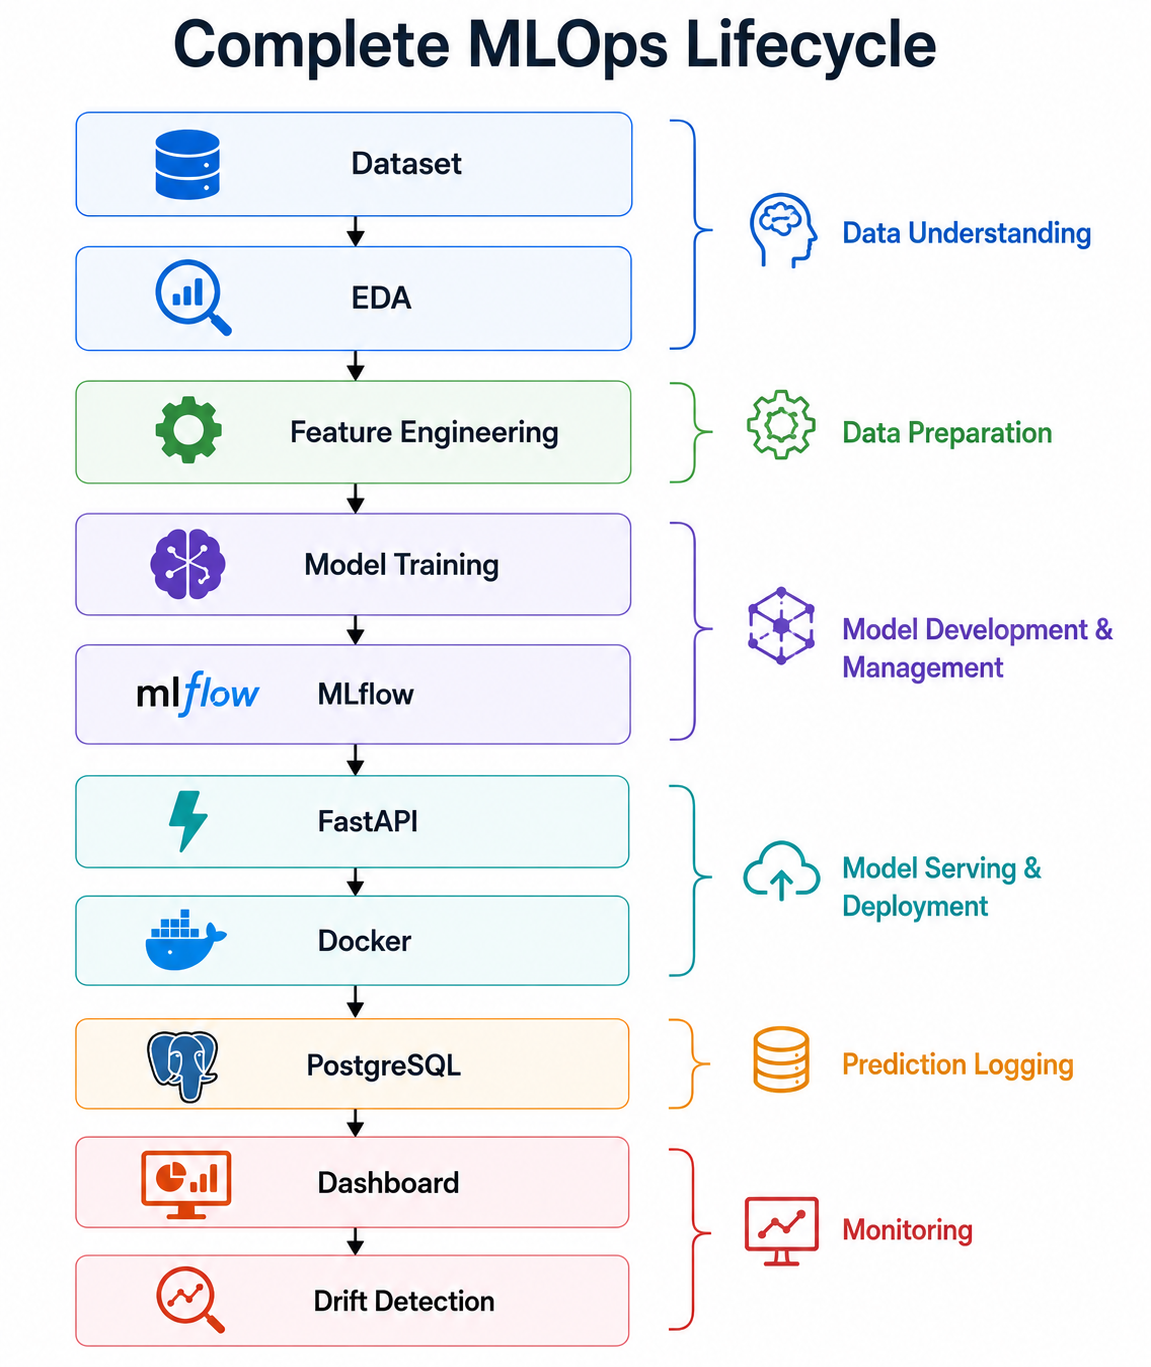
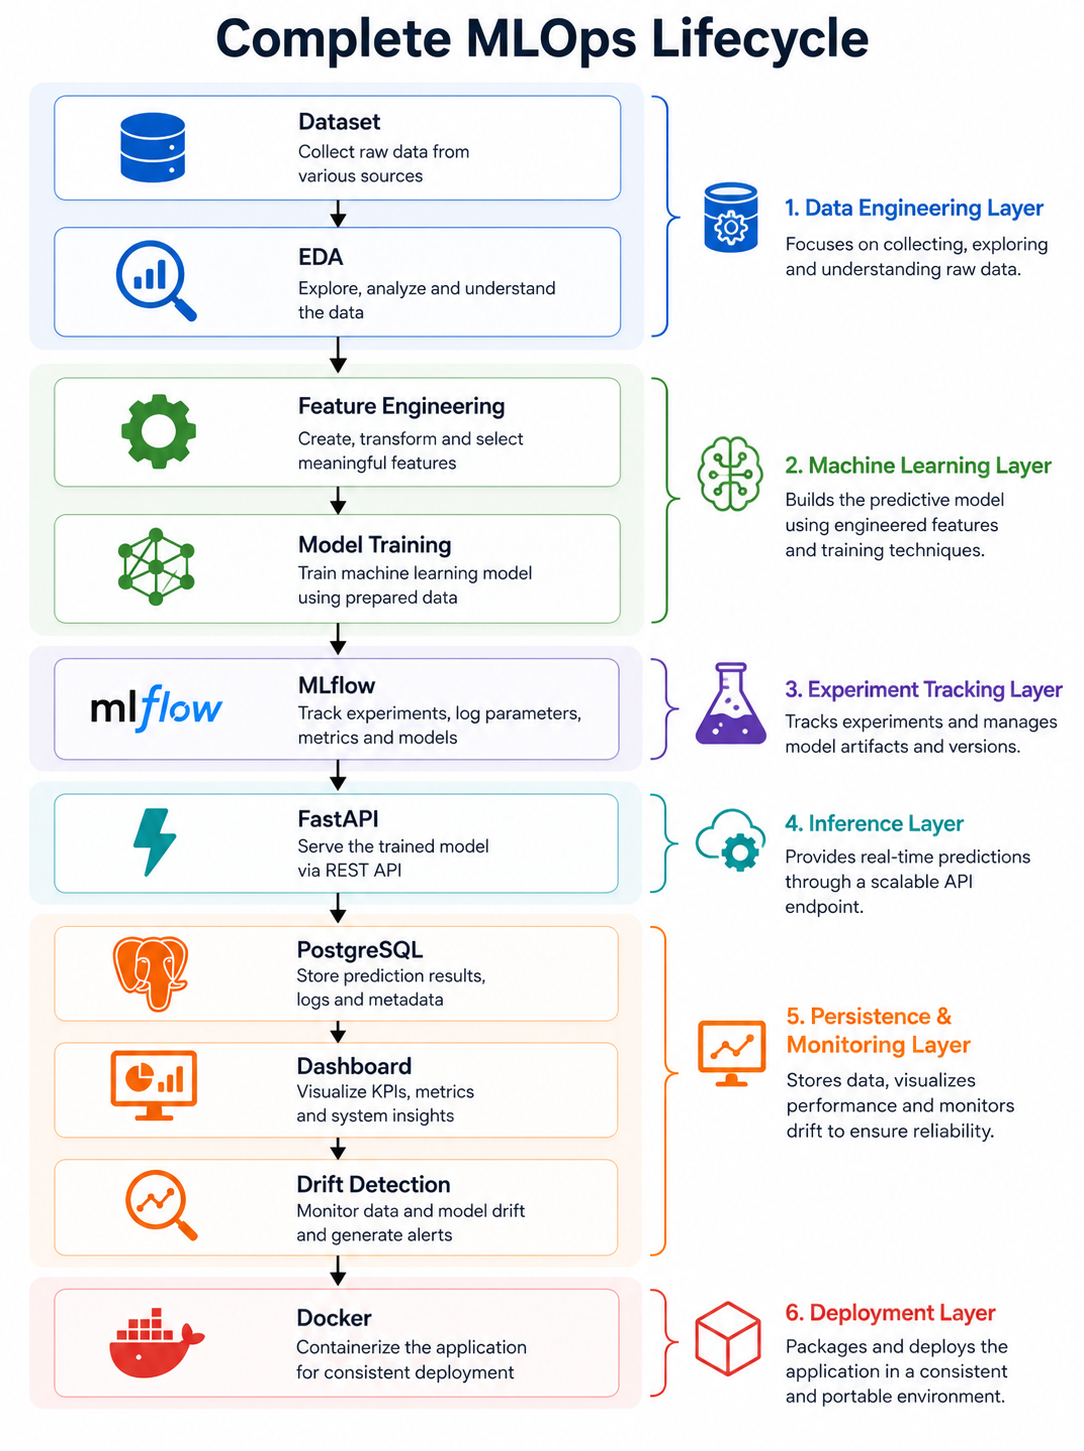
docs: integrate architecture diagrams into project documentation

diff --git a/docs/20_Machine_Learning/EXPERIMENT_TRACKING.md b/docs/20_Machine_Learning/EXPERIMENT_TRACKING.md
@@ -40,40 +40,14 @@ MLflow was introduced to solve these challenges by maintaining a complete histor
 
 # 3. MLflow Architecture
 
-The Adaptive Fraud Intelligence Platform integrates MLflow within the offline training pipeline.
 
-```
-Fraud Dataset
-      │
-      ▼
-Feature Engineering
-      │
-      ▼
-CatBoost Training
-      │
-      ▼
-Model Evaluation
-      │
-      ▼
-MLflow Experiment Tracking
-      │
-      ├── Parameters
-      ├── Metrics
-      └── Model Artifact
-      │
-      ▼
-MLflow Model Registry
-      │
-      ▼
-Model Versioning
-      │
-      ▼
-Deployment Packaging (Joblib)
-```
+MLflow provides a structured workflow for managing machine learning experiments, tracking model performance, and promoting selected models to the Model Registry for deployment.
 
-MLflow serves as the experiment management layer of the platform, while the exported Joblib model is used by the production inference service.
+![MLflow Lifecycle](../assets/images/7_MLflow_lifecycle.png)
 
----
+*Figure 4.2. MLflow experiment lifecycle.*
+
+The lifecycle demonstrates how experiments progress from model training and metric logging to model registration and deployment readiness, ensuring reproducibility and governance throughout the machine learning workflow.
 
 # 4. MLflow Configuration
 
@@ -89,42 +63,7 @@ Each execution of the training pipeline automatically creates a new experiment r
 Every run maintains an independent record of the training process.
 
 ---
-
-# 5. Experiment Lifecycle
-
-The implemented experiment lifecycle is shown below.
-
-```
-Train CatBoost Model
-        │
-        ▼
-Evaluate Model
-        │
-        ▼
-Start MLflow Run
-        │
-        ├── Log Parameters
-        ├── Log Metrics
-        └── Log Model Artifact
-        │
-        ▼
-Experiment Stored
-        │
-        ▼
-Manual Model Registration
-        │
-        ▼
-Model Version Created
-        │
-        ▼
-Export Model using Joblib
-```
-
-Each experiment remains independently accessible, allowing comparison with previous runs.
-
----
-
-# 6. Parameter Logging
+# 5. Parameter Logging
 
 MLflow records the important hyperparameters used during model training.
 
@@ -142,7 +81,7 @@ This improves reproducibility and simplifies future experimentation.
 
 ---
 
-# 7. Metric Logging
+# 6. Metric Logging
 
 After model evaluation, the following performance metrics are logged to MLflow.
 
@@ -156,7 +95,7 @@ Unlike accuracy, these metrics better represent model performance on highly imba
 
 ---
 
-# 8. Model Artifact Logging
+# 7. Model Artifact Logging
 
 In addition to numerical evaluation metrics, the trained CatBoost model is stored as an MLflow artifact.
 
@@ -177,7 +116,7 @@ This guarantees complete experiment reproducibility.
 
 ---
 
-# 9. MLflow Model Registry
+# 8. MLflow Model Registry
 
 Experiment tracking and model management serve different purposes.
 
@@ -201,7 +140,7 @@ This approach allowed the project to demonstrate the complete model governance w
 
 ---
 
-# 10. Model Versioning
+# 9. Model Versioning
 
 The Model Registry maintains versioned instances of the registered model.
 
@@ -230,7 +169,7 @@ Although this project manually manages model registration, the versioning workfl
 
 ---
 
-# 11. Deployment Packaging
+# 10. Deployment Packaging
 
 The deployed FastAPI service loads a serialized Joblib model.
 
@@ -254,7 +193,7 @@ Separating experiment management from runtime inference keeps the prediction ser
 
 ---
 
-# 12. Engineering Decisions
+# 11. Engineering Decisions
 
 Several engineering decisions influenced the experiment tracking workflow.
 
@@ -284,7 +223,7 @@ This simplifies deployment and improves operational reliability.
 
 ---
 
-# 13. Challenges
+# 12. Challenges
 
 The primary challenges encountered during implementation included:
 
@@ -297,7 +236,7 @@ Despite these challenges, MLflow was successfully incorporated into the end-to-e
 
 ---
 
-# 14. Lessons Learned
+# 13. Lessons Learned
 
 The integration of MLflow reinforced several important MLOps practices.
 
@@ -309,7 +248,7 @@ The integration of MLflow reinforced several important MLOps practices.
 
 ---
 
-# 15. Future Improvements
+# 14 Future Improvements
 
 Future versions of the platform may include:
 
@@ -321,7 +260,7 @@ Future versions of the platform may include:
 
 ---
 
-# 16. Interview Questions
+# 15. Interview Questions
 
 1. Why is experiment tracking important in machine learning?
 2. Why did you choose MLflow?

diff --git a/docs/30_Backend/FASTAPI.md b/docs/30_Backend/FASTAPI.md
@@ -41,34 +41,11 @@ These features make FastAPI suitable for deploying real-time prediction services
 
 # 3. Backend Architecture
 
-The FastAPI service acts as the communication layer between external clients and the fraud detection model.
+**Figure 5.1 – FastAPI Inference Workflow**
 
-```
-                Client
-                   │
-                   ▼
-             FastAPI Service
-                   │
-        ┌──────────┴──────────┐
-        ▼                     ▼
-Input Validation        Load Model
-        │                     │
-        └──────────┬──────────┘
-                   ▼
-          Feature Preparation
-                   │
-                   ▼
-           CatBoost Prediction
-                   │
-                   ▼
-            Decision Engine
-                   │
-        ┌──────────┴──────────┐
-        ▼                     ▼
- PostgreSQL Logger      JSON Response
-```
+![FastAPI Inference Workflow](../assets/images/3_API.png)
 
-The API separates validation, prediction, business logic, and persistence into independent components.
+*Figure 5.1. End-to-end request processing workflow implemented by the FastAPI inference service.*
 
 ---
 

diff --git a/docs/50_Monitoring/DASHBOARD.md b/docs/50_Monitoring/DASHBOARD.md
@@ -40,29 +40,13 @@ The monitoring dashboard addresses these requirements by presenting operational 
 
 # 3. Dashboard Architecture
 
-The dashboard is positioned after the prediction service and database.
+The monitoring framework continuously evaluates both incoming transaction data and model performance to detect changes that could reduce prediction quality. This enables timely intervention through alerts and model retraining when necessary.
 
-```
-              Client
-                 │
-                 ▼
-             FastAPI API
-                 │
-                 ▼
-          CatBoost Prediction
-                 │
-                 ▼
-            PostgreSQL
-                 │
-        ┌────────┴─────────┐
-        ▼                  ▼
-Dashboard Metrics    Recent Predictions
-```
+![Monitoring and Drift Detection Workflow](../assets/images/5_Monitoring_Drift.png)
 
-The dashboard performs only read operations and does not modify production data.
+*Figure 7.1. Monitoring and drift detection workflow.*
 
----
-
+The monitoring pipeline tracks data quality, feature distributions, prediction behavior, and performance metrics to identify data drift, concept drift, and model degradation.
 # 4. Technology Stack
 
 The monitoring dashboard was implemented using **Streamlit**.

diff --git a/docs/40_Deployment/DOCKER.md b/docs/40_Deployment/DOCKER.md
@@ -43,25 +43,13 @@ Instead of configuring every machine manually, the application can be deployed u
 
 # 3. Deployment Architecture
 
-The platform uses a multi-container architecture managed by Docker Compose.
+The deployment architecture is implemented using Docker Compose to orchestrate the application's services in a reproducible and isolated environment.
 
-```
-                    Docker Compose
-                           │
-          ┌────────────────┴────────────────┐
-          ▼                                 ▼
-   fraud-api Container             fraud-postgres Container
-          │                                 │
-          ▼                                 ▼
-     FastAPI Service                  PostgreSQL 16
-          │
-          ▼
-   CatBoost Prediction Model
-```
+![Docker Deployment Architecture](../assets/images/4_Docker_Deployment.png)
 
-Each service executes within its own isolated container while communicating through Docker's internal network.
+*Figure 6.1. Docker deployment architecture.*
 
----
+The platform consists of multiple containers that communicate over a shared Docker network, enabling seamless interaction between the FastAPI application, PostgreSQL database, and other supporting services.
 
 # 4. Docker Components
 

diff --git a/docs/00_Foundation/PROJECT_OVERVIEW.md b/docs/00_Foundation/PROJECT_OVERVIEW.md
@@ -44,6 +44,14 @@ This separation between prediction and decision logic improves maintainability a
 
 The platform consists of six major subsystems.
 
+The deployment strategy extends beyond containerization by incorporating an end-to-end MLOps workflow. This workflow connects data preparation, model development, deployment, monitoring, and continuous improvement into a unified lifecycle.
+
+![End-to-End MLOps Workflow](../assets/images/6_MLOps.png)
+
+*Figure 6.2. End-to-end MLOps workflow.*
+
+The workflow demonstrates how data, model training, deployment, monitoring, and feedback interact to support continuous model improvement and reliable production operations.
+
 ## 4.1 Data Engineering Layer
 
 Responsible for preparing raw transaction data for model training.

diff --git a/docs/20_Machine_Learning/MODEL_DEVELOPMENT.md b/docs/20_Machine_Learning/MODEL_DEVELOPMENT.md
@@ -96,7 +96,7 @@ Tree-based algorithms were selected because they:
 - Perform well on structured financial transaction data.
 
 ---
-**Figure 4.1 – Machine Learning Pipeline**
+
 
 ![Machine Learning Pipeline](../assets/images/2_ML.png)
 